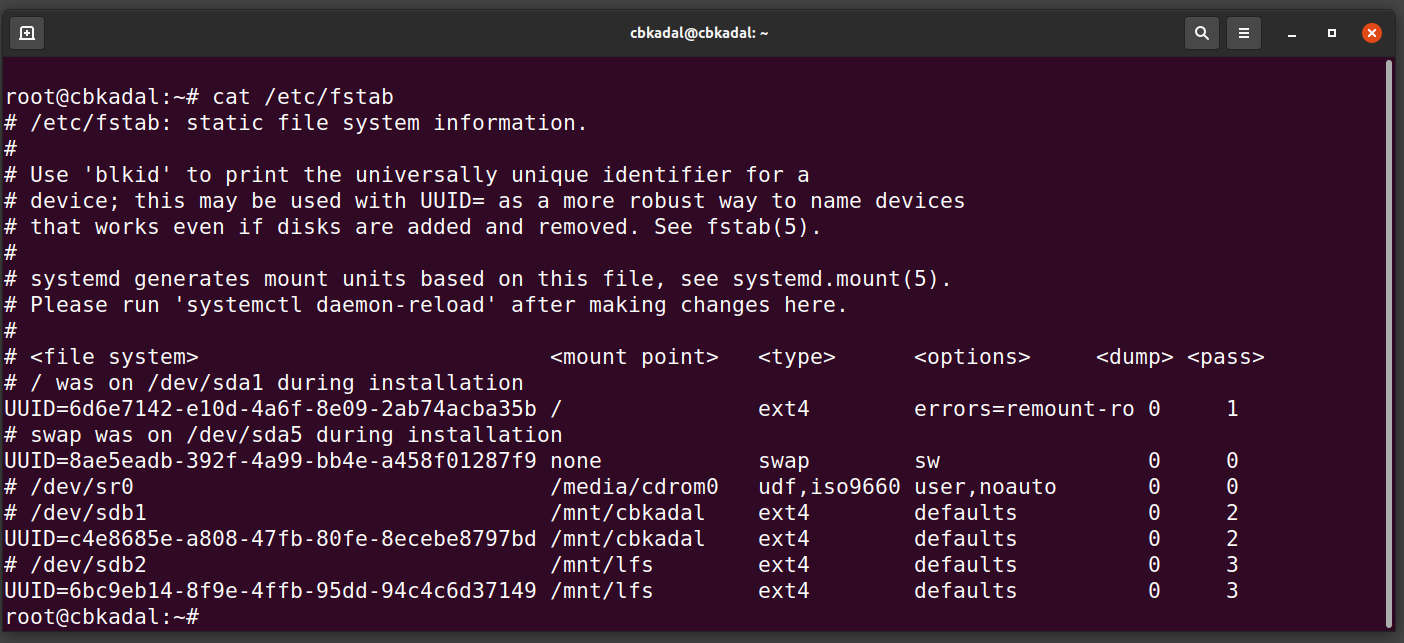
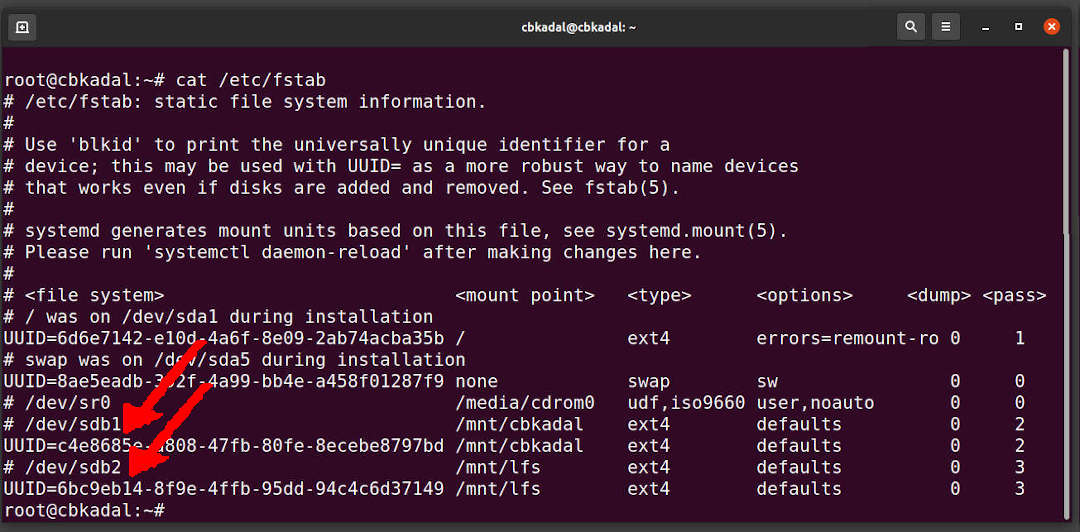
modified:   035.md dospF-08.jpg

diff --git a/035.md b/035.md
@@ -55,6 +55,7 @@ For UTM, replace "sda1", "sdb1", and "sdb2" with "vda1", "vdb1", and "vdb2".
   * Mounting point: /mnt/cbkadal/
   * UUID: c4e8685e-a808-47fb-80fe-8ecebe8797bd
 * for UTM, the devices start with the letter "v" (E.g., "vdb1" and "vdb2").
+* Remember: <span style="color:red; font-weight:bold; font-size:larger;">you are not cbkadal!</span>
 
 <img src="{{ site.baseurl }}/assets/images/dospF-08.jpg" style="width:960px;">
 <br>

diff --git a/004.md b/004.md
@@ -84,7 +84,7 @@ all: $(MD_FILES) .siteHack
 ### _config.yml
 
 ```
-version:          "0139--29-Sep-2023"
+version:          "0139a--29-Sep-2023"
 copyright:        "2021-2023"
 title:            "This Is How Me Do It!"
 author:           "C. BinKadal"
